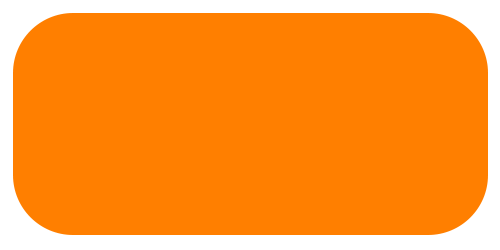
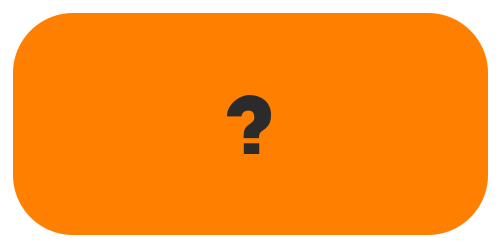
SubBT in BT, Options button and export popup when there's errors, sequence and selector nodes have a symbol now

Changed region(s): [[0.45, 0.364, 0.54, 0.616]]

diff --git a/TFG/GUI Control/NodeEditorUtilities.cs b/TFG/GUI Control/NodeEditorUtilities.cs
@@ -17,11 +17,13 @@ public class NodeEditorUtilities
     static string actionsEnding = "Action";
     static string conditionsEnding = "SuccessCheck";
     static string classEnding = "_class";
+    static string subFSMEnding = "_SubFSM";
+    static string subBtEnding = "_SubBT";
 
     /// <summary>
     /// Creates a new C# for a FSM.
     /// </summary>
-    public static void CreateElem(ClickableElement elem, bool isSub = false)
+    public static void GenerateElemCode(ClickableElement elem)
     {
         string templatePath = "none";
 
@@ -41,34 +43,22 @@ public class NodeEditorUtilities
             return;
         }
         string path = AssetDatabase.GUIDToAssetPath(guids[0]);
-        CreateFromTemplate(
-            CleanName(elem.elementName) + ".cs",
-            path,
-            elem,
-            isSub
-        );
+
+        CreateAsset(CleanName(elem.elementName) + ".cs", path, elem);
     }
 
-    private static void CreateFromTemplate(string initialName, string templatePath, ClickableElement elem, bool isSub)
+    private static void CreateAsset(string initialName, string templatePath, ClickableElement elem)
     {
-        //ProjectWindowUtil.StartNameEditingIfProjectWindowExists(
-        //    0,
-        //    ScriptableObject.CreateInstance<DoCreateCodeFile>(),
-        //    initialName,
-        //    scriptIcon,
-        //    templatePath
-        //);
-
         if (!AssetDatabase.IsValidFolder("Assets/AI Scripts"))
             AssetDatabase.CreateFolder("Assets", "AI Scripts");
-        Object o = CreateScript("Assets/AI Scripts/" + initialName, templatePath, elem, isSub);
+        Object o = CreateScript("Assets/AI Scripts/" + initialName, templatePath, elem);
         ProjectWindowUtil.ShowCreatedAsset(o);
     }
 
     /// <summary>
     /// Creates Script from Template's path.
     /// </summary>
-    private static UnityEngine.Object CreateScript(string pathName, string templatePath, ClickableElement elem, bool isSub)
+    private static UnityEngine.Object CreateScript(string pathName, string templatePath, ClickableElement elem)
     {
         string templateText = string.Empty;
 
@@ -83,36 +73,20 @@ public class NodeEditorUtilities
 
             // Replace the tags with the corresponding parts
             string className = Path.GetFileNameWithoutExtension(pathName);
-            string engineEnding = "";
             List<ClickableElement> subElems = new List<ClickableElement>();
 
-            switch (elem.GetType().ToString())
-            {
-                case nameof(FSM):
-                    if (isSub)
-                        engineEnding = "_SubFSM";
-                    else
-                        engineEnding = "_FSM";
-                    break;
-                case nameof(BehaviourTree):
-                    if (isSub)
-                        engineEnding = "_SubBT";
-                    else
-                        engineEnding = "_BT";
-                    break;
-            }
-
             templateText = templateText.Replace("#SCRIPTNAME#", className);
-            templateText = templateText.Replace("#ENDING#", engineEnding);
 
             switch (elem.GetType().ToString())
             {
                 case nameof(FSM):
+                    templateText = templateText.Replace("#ENDING#", "_FSM");
                     templateText = templateText.Replace("#FSMCREATE#", GetFSMCreate(elem, "_FSM", false, ref subElems));
                     templateText = GetAllSubElemsRecursive(templateText, ref subElems);
                     templateText = templateText.Replace("#SUBELEMCREATE#", string.Empty);
                     break;
                 case nameof(BehaviourTree):
+                    templateText = templateText.Replace("#ENDING#", "_BT");
                     templateText = templateText.Replace("#BTCREATE#", GetBTCreate(elem, "_BT", false, ref subElems));
                     templateText = GetAllSubElemsRecursive(templateText, ref subElems);
                     templateText = templateText.Replace("#SUBELEMCREATE#", string.Empty);
@@ -160,9 +134,9 @@ public class NodeEditorUtilities
         foreach (ClickableElement sub in subElems)
         {
             if (sub is FSM)
-                templateText = templateText.Replace("#SUBELEMCREATE#", GetFSMCreate(sub, "_SubFSM", true, ref subElemsCopy));
+                templateText = templateText.Replace("#SUBELEMCREATE#", GetFSMCreate(sub, subFSMEnding, true, ref subElemsCopy));
             if (sub is BehaviourTree)
-                templateText = templateText.Replace("#SUBELEMCREATE#", GetBTCreate(sub, "_SubBT", true, ref subElemsCopy));
+                templateText = templateText.Replace("#SUBELEMCREATE#", GetBTCreate(sub, subBtEnding, true, ref subElemsCopy));
         }
         if (subElemsCopy.Count > 0)
         {
@@ -180,7 +154,7 @@ public class NodeEditorUtilities
 
         foreach (ClickableElement sub in subElems)
         {
-            string engineEnding = sub is FSM ? "_SubFSM" : sub is BehaviourTree ? "_SubBT" : "";
+            string engineEnding = sub is FSM ? subFSMEnding : sub is BehaviourTree ? subBtEnding : "";
             string type = sub is FSM ? "StateMachineEngine" : sub is BehaviourTree ? "BehaviourTreeEngine" : "";
             string elemName = CleanName(sub.elementName);
             result += "private " + type + " " + elemName + engineEnding + ";\n" + tab;
@@ -196,7 +170,7 @@ public class NodeEditorUtilities
 
         for (int i = subElems.Count - 1; i >= 0; i--)
         {
-            string engineEnding = subElems[i] is FSM ? "_SubFSM" : subElems[i] is BehaviourTree ? "_SubBT" : "";
+            string engineEnding = subElems[i] is FSM ? subFSMEnding : subElems[i] is BehaviourTree ? subBtEnding : "";
             string elemName = CleanName(subElems[i].elementName) + engineEnding;
             result += "Create" + elemName + "();\n" + tab + tab;
         }
@@ -267,7 +241,7 @@ public class NodeEditorUtilities
 
         foreach (ClickableElement sub in subElems)
         {
-            string engineEnding = sub is FSM ? "_SubFSM" : sub is BehaviourTree ? "_SubBT" : "";
+            string engineEnding = sub is FSM ? subFSMEnding : sub is BehaviourTree ? subBtEnding : "";
             string elemName = CleanName(sub.elementName);
             result += "\n" + tab + tab + elemName + engineEnding + ".Update();";
         }
@@ -302,12 +276,12 @@ public class NodeEditorUtilities
             string nodeName = CleanName(node.nodeName);
             if (node.elem is FSM)
             {
-                result += "State " + nodeName + " = " + machineName + ".CreateSubStateMachine(\"" + node.nodeName + "\", " + nodeName + "_SubFSM" + ");\n" + tab + tab; // SubFSM ending hardocded on purpose
+                result += "State " + nodeName + " = " + machineName + ".CreateSubStateMachine(\"" + node.nodeName + "\", " + nodeName + subFSMEnding + ");\n" + tab + tab;
                 subElems.Add(node.elem);
             }
             else if (node.elem is BehaviourTree)
             {
-                result += "State " + nodeName + " = " + machineName + ".CreateSubStateMachine(\"" + node.nodeName + "\", " + nodeName + "_SubBT" + ");\n" + tab + tab; // SubBT ending hardocded on purpose
+                result += "State " + nodeName + " = " + machineName + ".CreateSubStateMachine(\"" + node.nodeName + "\", " + nodeName + subBtEnding + ");\n" + tab + tab;
                 subElems.Add(node.elem);
 
             }
@@ -345,7 +319,7 @@ public class NodeEditorUtilities
             }
         }
 
-        if(elem.parent is BehaviourTree)
+        if (elem.parent is BehaviourTree)
             result += "\n" + tab + tab + machineName + ".CreateExitTransition(\"" + machineName + " Exit" + "\", null /*Change this for a node*/, null /*Change this for a perception*/, ReturnValues.Succeed);";
 
         return result;
@@ -376,7 +350,12 @@ public class NodeEditorUtilities
                 case BehaviourNode.behaviourType.Leaf:
                     if (node.elem is FSM)
                     {
-                        result += "LeafNode " + nodeName + " = " + machineName + ".CreateSubBehaviour(\"" + node.nodeName + "\", " + nodeName + "_SubFSM" + ");\n" + tab + tab;
+                        result += "LeafNode " + nodeName + " = " + machineName + ".CreateSubBehaviour(\"" + node.nodeName + "\", " + nodeName + subFSMEnding + ");\n" + tab + tab;
+                        subElems.Add(node.elem);
+                    }
+                    else if (node.elem is BehaviourTree)
+                    {
+                        result += "LeafNode " + nodeName + " = " + machineName + ".CreateSubBehaviour(\"" + node.nodeName + "\", " + nodeName + subBtEnding + ");\n" + tab + tab;
                         subElems.Add(node.elem);
                     }
                     else

diff --git a/TFG/GUI Control/NodeEditor.cs b/TFG/GUI Control/NodeEditor.cs
@@ -52,6 +52,7 @@ public class NodeEditor : EditorWindow
         mousePos = e.mousePosition;
 
         ShowTopBar();
+        ShowOptions();
         ShowErrorByPriority();
 
         // Draw the curves for everything
@@ -165,6 +166,7 @@ public class NodeEditor : EditorWindow
                                     menu.AddDisabledItem(new GUIContent("Decorator Nodes/Add Succeeder"));
                                     menu.AddDisabledItem(new GUIContent("Decorator Nodes/Add Conditional"));
                                     menu.AddDisabledItem(new GUIContent("Add FSM"));
+                                    menu.AddDisabledItem(new GUIContent("Add BT"));
                                 }
                                 else
                                 {
@@ -179,6 +181,7 @@ public class NodeEditor : EditorWindow
                                     menu.AddItem(new GUIContent("Decorator Nodes/Add Succeeder"), false, ContextCallback, new string[] { "succeeder", selectIndex.ToString() });
                                     menu.AddItem(new GUIContent("Decorator Nodes/Add Conditional"), false, ContextCallback, new string[] { "conditional", selectIndex.ToString() });
                                     menu.AddItem(new GUIContent("Add FSM"), false, ContextCallback, new string[] { "FSM", selectIndex.ToString() });
+                                    menu.AddItem(new GUIContent("Add BT"), false, ContextCallback, new string[] { "BT", selectIndex.ToString() });
                                 }
 
                                 menu.AddSeparator("");
@@ -358,15 +361,6 @@ public class NodeEditor : EditorWindow
                     currentElem = currentElem?.parent;
                     e.Use();
                     break;
-                case KeyCode.S:
-                    if (GUIUtility.keyboardControl == 0 && errors.Count == 0)
-                    {
-                        foreach (ClickableElement elem in Elements)
-                        {
-                            NodeEditorUtilities.CreateElem(elem);
-                        }
-                    }
-                    break;
             }
         }
 
@@ -426,7 +420,11 @@ public class NodeEditor : EditorWindow
         {
             for (int i = 0; i < ((BehaviourTree)currentElem).nodes.Count; i++)
             {
-                ((BehaviourTree)currentElem).nodes[i].windowRect = GUI.Window(i, ((BehaviourTree)currentElem).nodes[i].windowRect, DrawNodeWindow, ((BehaviourTree)currentElem).nodes[i].GetTypeString(), new GUIStyle(Styles.SubTitleText)
+                string displayName = "";
+                if (((BehaviourTree)currentElem).nodes[i].type > BehaviourNode.behaviourType.Selector)
+                    displayName = ((BehaviourTree)currentElem).nodes[i].GetTypeString();
+
+                ((BehaviourTree)currentElem).nodes[i].windowRect = GUI.Window(i, ((BehaviourTree)currentElem).nodes[i].windowRect, DrawNodeWindow, displayName, new GUIStyle(Styles.SubTitleText)
                 {
                     normal = new GUIStyleState()
                     {
@@ -574,6 +572,24 @@ public class NodeEditor : EditorWindow
 
         var labelWidth = 25 + name.ToCharArray().Length * 6;
         GUI.Label(new Rect(widthVariant, 0, labelWidth, 20), name);
+    }
+
+    /// <summary>
+    /// Draws the Options button
+    /// </summary>
+    private void ShowOptions()
+    {
+        if (GUI.Button(new Rect(position.width - 60, 0, 50, 20), "...", Styles.OptionsButton))
+        {
+            // Set menu items
+            GenericMenu menu = new GenericMenu();
+
+            menu.AddDisabledItem(new GUIContent("Save XML"));
+            menu.AddDisabledItem(new GUIContent("Load XML"));
+            menu.AddItem(new GUIContent("Export Code"), false, ExportCode);
+
+            menu.ShowAsContext();
+        }
     }
 
     /// <summary>
@@ -896,6 +912,24 @@ public class NodeEditor : EditorWindow
             case "connectNode":
                 ConnectNode(index);
                 break;
+        }
+    }
+
+    /// <summary>
+    /// Exporta el código si no hay errores
+    /// </summary>
+    void ExportCode()
+    {
+        if (GUIUtility.keyboardControl == 0 && errors.Count == 0)
+        {
+            foreach (ClickableElement elem in Elements)
+            {
+                NodeEditorUtilities.GenerateElemCode(elem);
+            }
+        }
+        else
+        {
+            PopupWindow.InitExport(this);
         }
     }
 

diff --git a/TFG/GUI Control/PopupWindow.cs b/TFG/GUI Control/PopupWindow.cs
@@ -7,8 +7,7 @@ public class PopupWindow : EditorWindow
     enum typeOfPopup
     {
         Delete,
-        //NameRepeat,
-        //NoEntry
+        Export
     }
 
     static typeOfPopup PopupType;
@@ -39,6 +38,23 @@ public class PopupWindow : EditorWindow
 
         elem = focusElem;
         typeOfElem = type;
+
+        PopupWindow window = ScriptableObject.CreateInstance<PopupWindow>();
+        window.position = new Rect(sender.position.center.x - width / 2, sender.position.center.y - height / 2, width, height);
+        window.ShowPopup();
+    }
+
+    /// <summary>
+    /// Initializer for the popup when deleting an element
+    /// </summary>
+    /// <param name="sender"></param>
+    /// <param name="focusElem"></param>
+    /// <param name="type"></param>
+    public static void InitExport(NodeEditor sender)
+    {
+        senderEditor = sender;
+
+        PopupType = typeOfPopup.Export;
 
         PopupWindow window = ScriptableObject.CreateInstance<PopupWindow>();
         window.position = new Rect(sender.position.center.x - width / 2, sender.position.center.y - height / 2, width, height);
@@ -83,9 +99,14 @@ public class PopupWindow : EditorWindow
     /// </summary>
     void OnGUI()
     {
-        if (PopupType == typeOfPopup.Delete)
+        switch (PopupType)
         {
-            ShowDeletePopup();
+            case typeOfPopup.Delete:
+                ShowDeletePopup();
+                break;
+            case typeOfPopup.Export:
+                ShowExportPopup();
+                break;
         }
 
         if (Event.current.isKey && Event.current.type == EventType.KeyUp)
@@ -122,6 +143,18 @@ public class PopupWindow : EditorWindow
             this.Close();
         }
         if (GUILayout.Button("Cancel", Styles.CancelStyle))
+        {
+            this.Close();
+        }
+    }
+
+    private void ShowExportPopup()
+    {
+        EditorGUILayout.LabelField("Fix all the errors", EditorStyles.boldLabel, GUILayout.Width(this.position.width - 10), GUILayout.ExpandHeight(true));
+
+        GUILayout.Space(30);
+
+        if (GUILayout.Button("Ok", Styles.CancelStyle))
         {
             this.Close();
         }

diff --git a/TFG/GUI Control/Styles.cs b/TFG/GUI Control/Styles.cs
@@ -24,6 +24,17 @@ public static class Styles
         }
     };
 
+    public static GUIStyle OptionsButton = new GUIStyle()
+    {
+        hover = new GUIStyleState()
+        {
+            textColor = Color.grey
+        },
+        alignment = TextAnchor.UpperRight,
+        fontSize = 15,
+        fontStyle = FontStyle.Bold
+    };
+
     public static GUIStyle TopBarButton = new GUIStyle(GUI.skin.button)
     {
         hover = new GUIStyleState()
